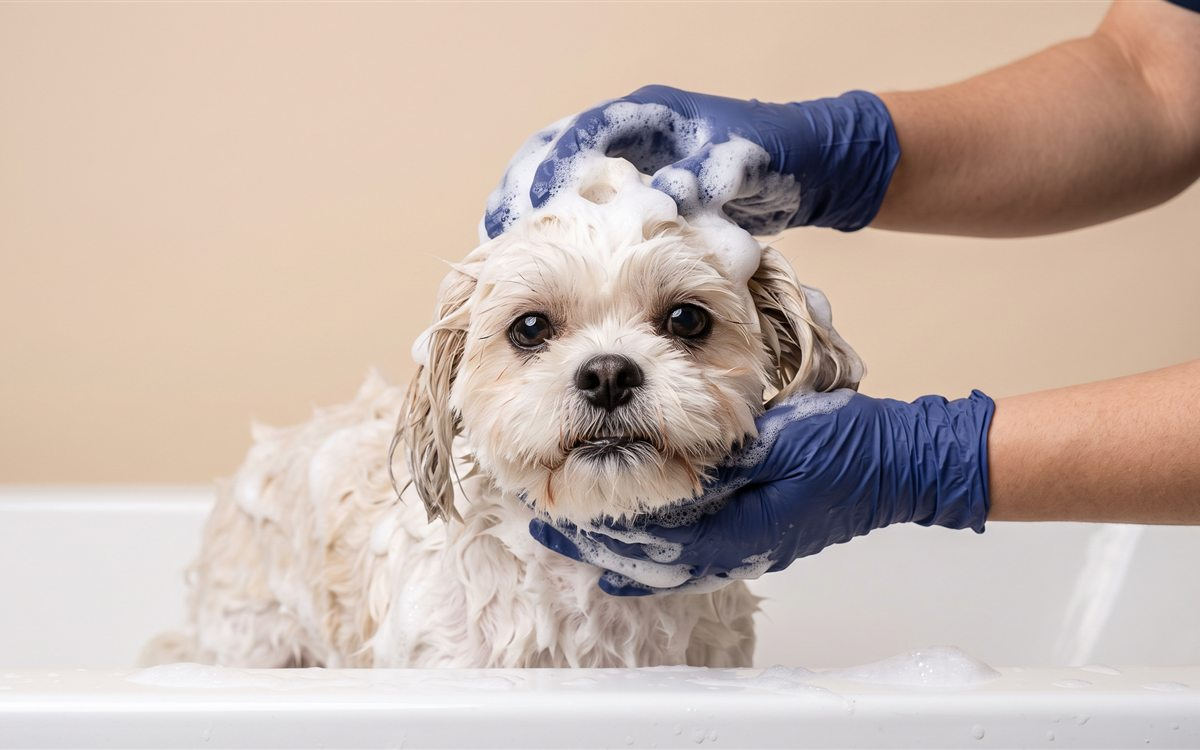
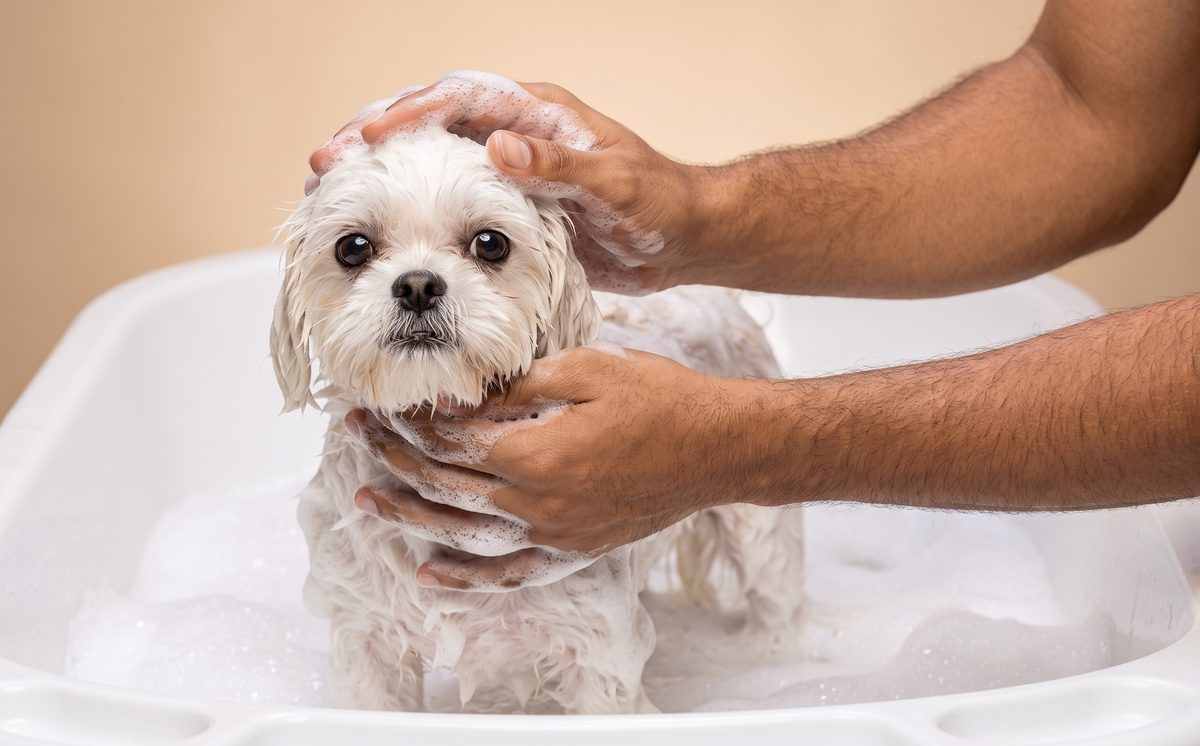
att

diff --git a/script.js b/script.js
@@ -78,7 +78,7 @@
   lista.innerHTML = CONFIG.servicos
     .map(
       (s, i) => `
-    <article class="service reveal ${s.destaque ? "service--featured" : ""}" style="--d:${(i % 3) * 80}ms">
+    <article class="service reveal ${s.destaque ? "service--featured" : ""}">
       <figure class="ph service__photo" data-label="${esc(s.nome)}">
         <img data-foto="${i}" src="${esc(s.foto)}" alt="${esc(s.nome)}" loading="lazy" />
         ${s.destaque ? `<span class="service__tag"><svg><use href="#i-star"/></svg>${esc(s.destaque)}</span>` : ""}
